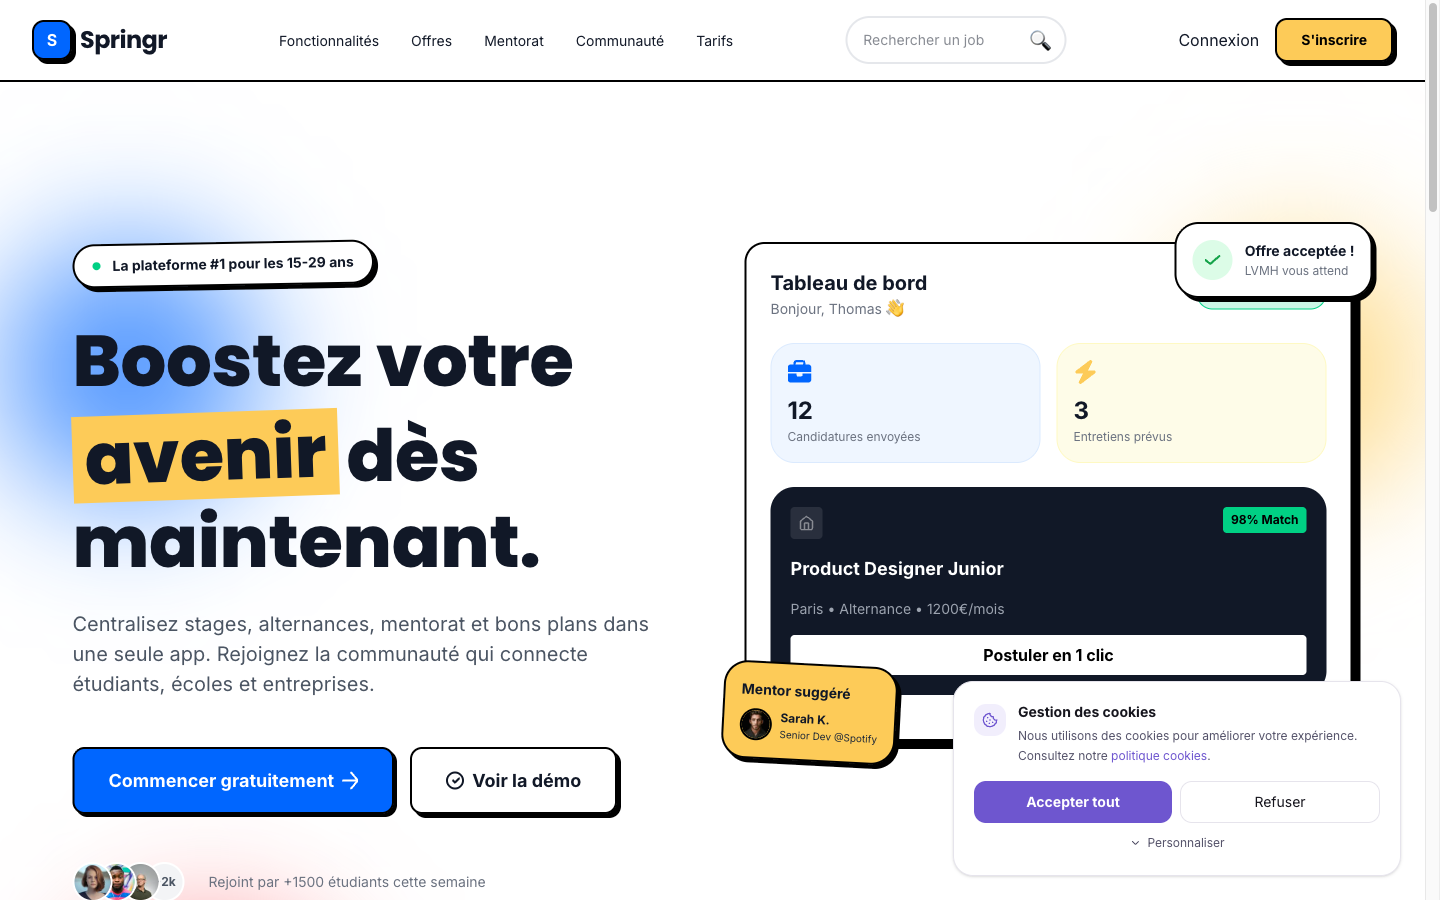
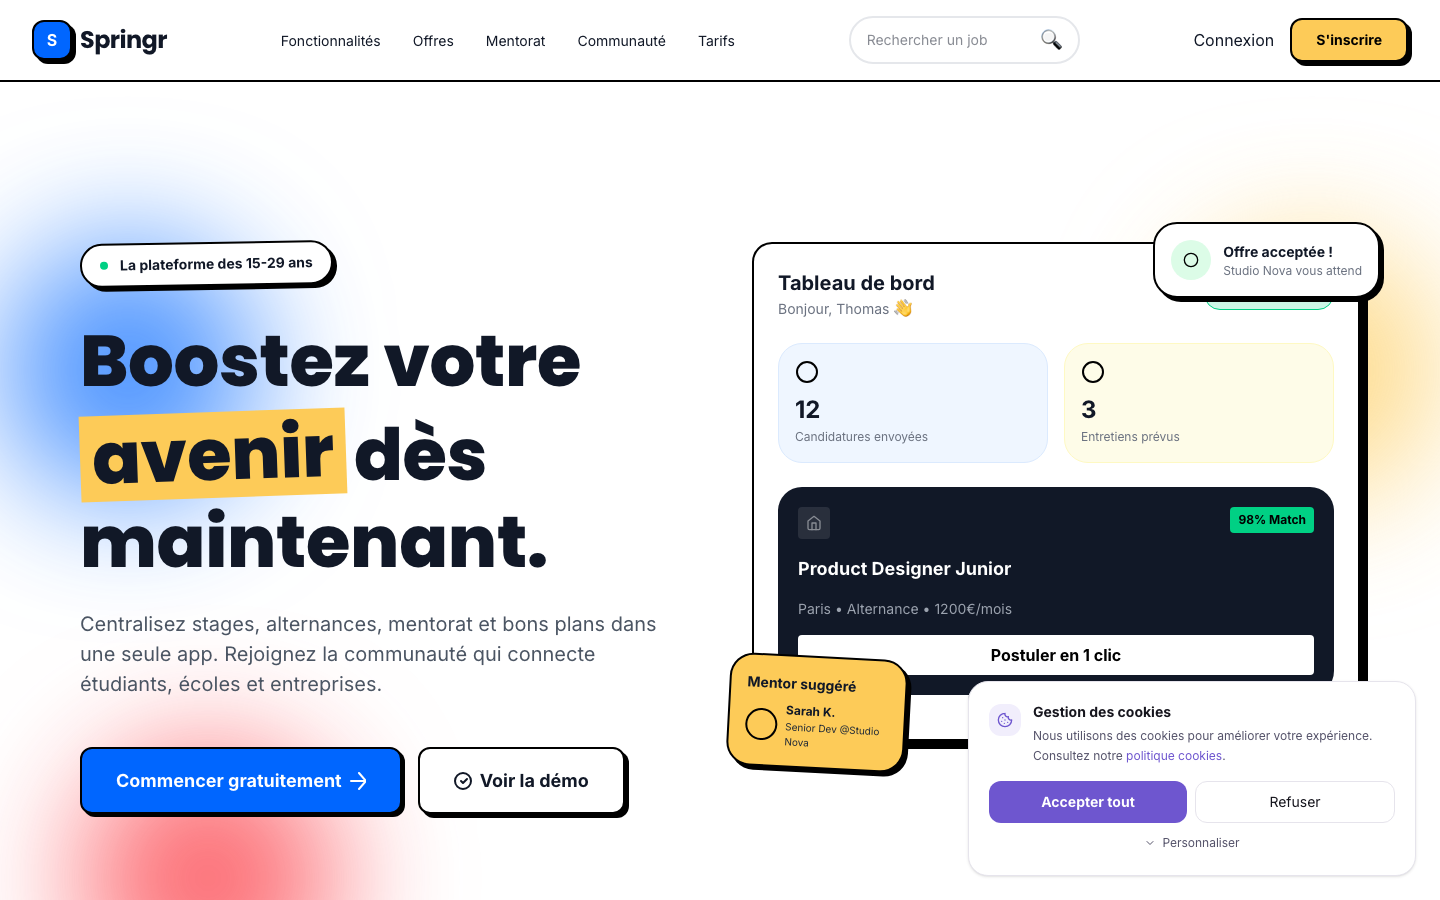
feat: section Mentorat (node 3:556) — grisée « Bientôt disponible »
- H2 Poppins Bold 40px « Mentorat »
- Section grisée (opacity 0.6)
- Texte central « Bientôt disponible »
- Placeholder cards grisées avec avatars neutres (pas de vraies photos)
- Tokens CSS uniquement
- Vérification Playwright 1440px

Claude-Session: https://claude.ai/code/session_01RwzzYYvVVEGFGtt9yUJ8ME

diff --git a/src/components/homepage/Mentorship.tsx b/src/components/homepage/Mentorship.tsx
@@ -1,0 +1,83 @@
+export function Mentorship() {
+  return (
+    <section
+      id="mentorat"
+      className="py-20 px-5 lg:px-8 opacity-60"
+      style={{ backgroundColor: "var(--color-bg-light-gray)" }}
+      data-node-id="3:556"
+    >
+      <div className="max-w-6xl mx-auto">
+        {/* Title */}
+        <h2
+          className="text-[40px] font-bold leading-tight text-center mb-12"
+          style={{
+            color: "var(--color-text-dark)",
+            fontFamily: "var(--font-poppins)",
+          }}
+        >
+          Mentorat
+        </h2>
+
+        {/* Coming soon message */}
+        <div className="text-center">
+          <p
+            className="text-[18px] font-bold mb-4"
+            style={{
+              color: "var(--color-text-gray-2)",
+              fontFamily: "var(--font-inter)",
+            }}
+          >
+            Bientôt disponible
+          </p>
+          <p
+            className="text-sm"
+            style={{
+              color: "var(--color-text-gray-1)",
+              fontFamily: "var(--font-inter)",
+            }}
+          >
+            Les mentors se préparent à rejoindre la plateforme.
+          </p>
+        </div>
+
+        {/* Placeholder cards (grayed out) */}
+        <div className="grid grid-cols-1 md:grid-cols-3 gap-6 max-w-4xl mx-auto mt-12 opacity-40">
+          {[1, 2, 3].map((i) => (
+            <div
+              key={i}
+              className="bg-white rounded-[12px] border-2 p-6 flex flex-col items-center"
+              style={{
+                borderColor: "var(--color-border-light)",
+                boxShadow: "var(--shadow-hard-4px)",
+              }}
+            >
+              {/* Avatar placeholder */}
+              <div
+                className="w-12 h-12 rounded-full mb-4 flex-shrink-0"
+                style={{
+                  backgroundColor: "var(--color-text-gray-2)",
+                }}
+              />
+
+              {/* Name placeholder */}
+              <div
+                className="h-4 mb-2 rounded w-3/4"
+                style={{
+                  backgroundColor: "var(--color-text-gray-2)",
+                }}
+              />
+
+              {/* Role placeholder */}
+              <div
+                className="h-3 rounded w-1/2"
+                style={{
+                  backgroundColor: "var(--color-text-gray-2)",
+                }}
+              />
+            </div>
+          ))}
+        </div>
+      </div>
+    </section>
+  );
+}

diff --git a/src/routes/index.tsx b/src/routes/index.tsx
@@ -19,6 +19,7 @@ import { Hero } from "@/components/homepage/Hero";
 import { WhySpringr } from "@/components/homepage/WhySpringr";
 import { FeaturesTab } from "@/components/homepage/FeaturesTab";
 import { LatestOpportunities } from "@/components/homepage/LatestOpportunities";
+import { Mentorship } from "@/components/homepage/Mentorship";
 
 const NAV_LINKS = [
   { to: "/opportunites", label: "Opportunités" },
@@ -103,6 +104,7 @@ function HomePage() {
         <WhySpringr />
         <FeaturesTab />
         <LatestOpportunities />
+        <Mentorship />
         <NewsletterCTA />
       </div>
       <FounderCheckoutDialog open={founderOpen} onOpenChange={setFounderOpen} />
